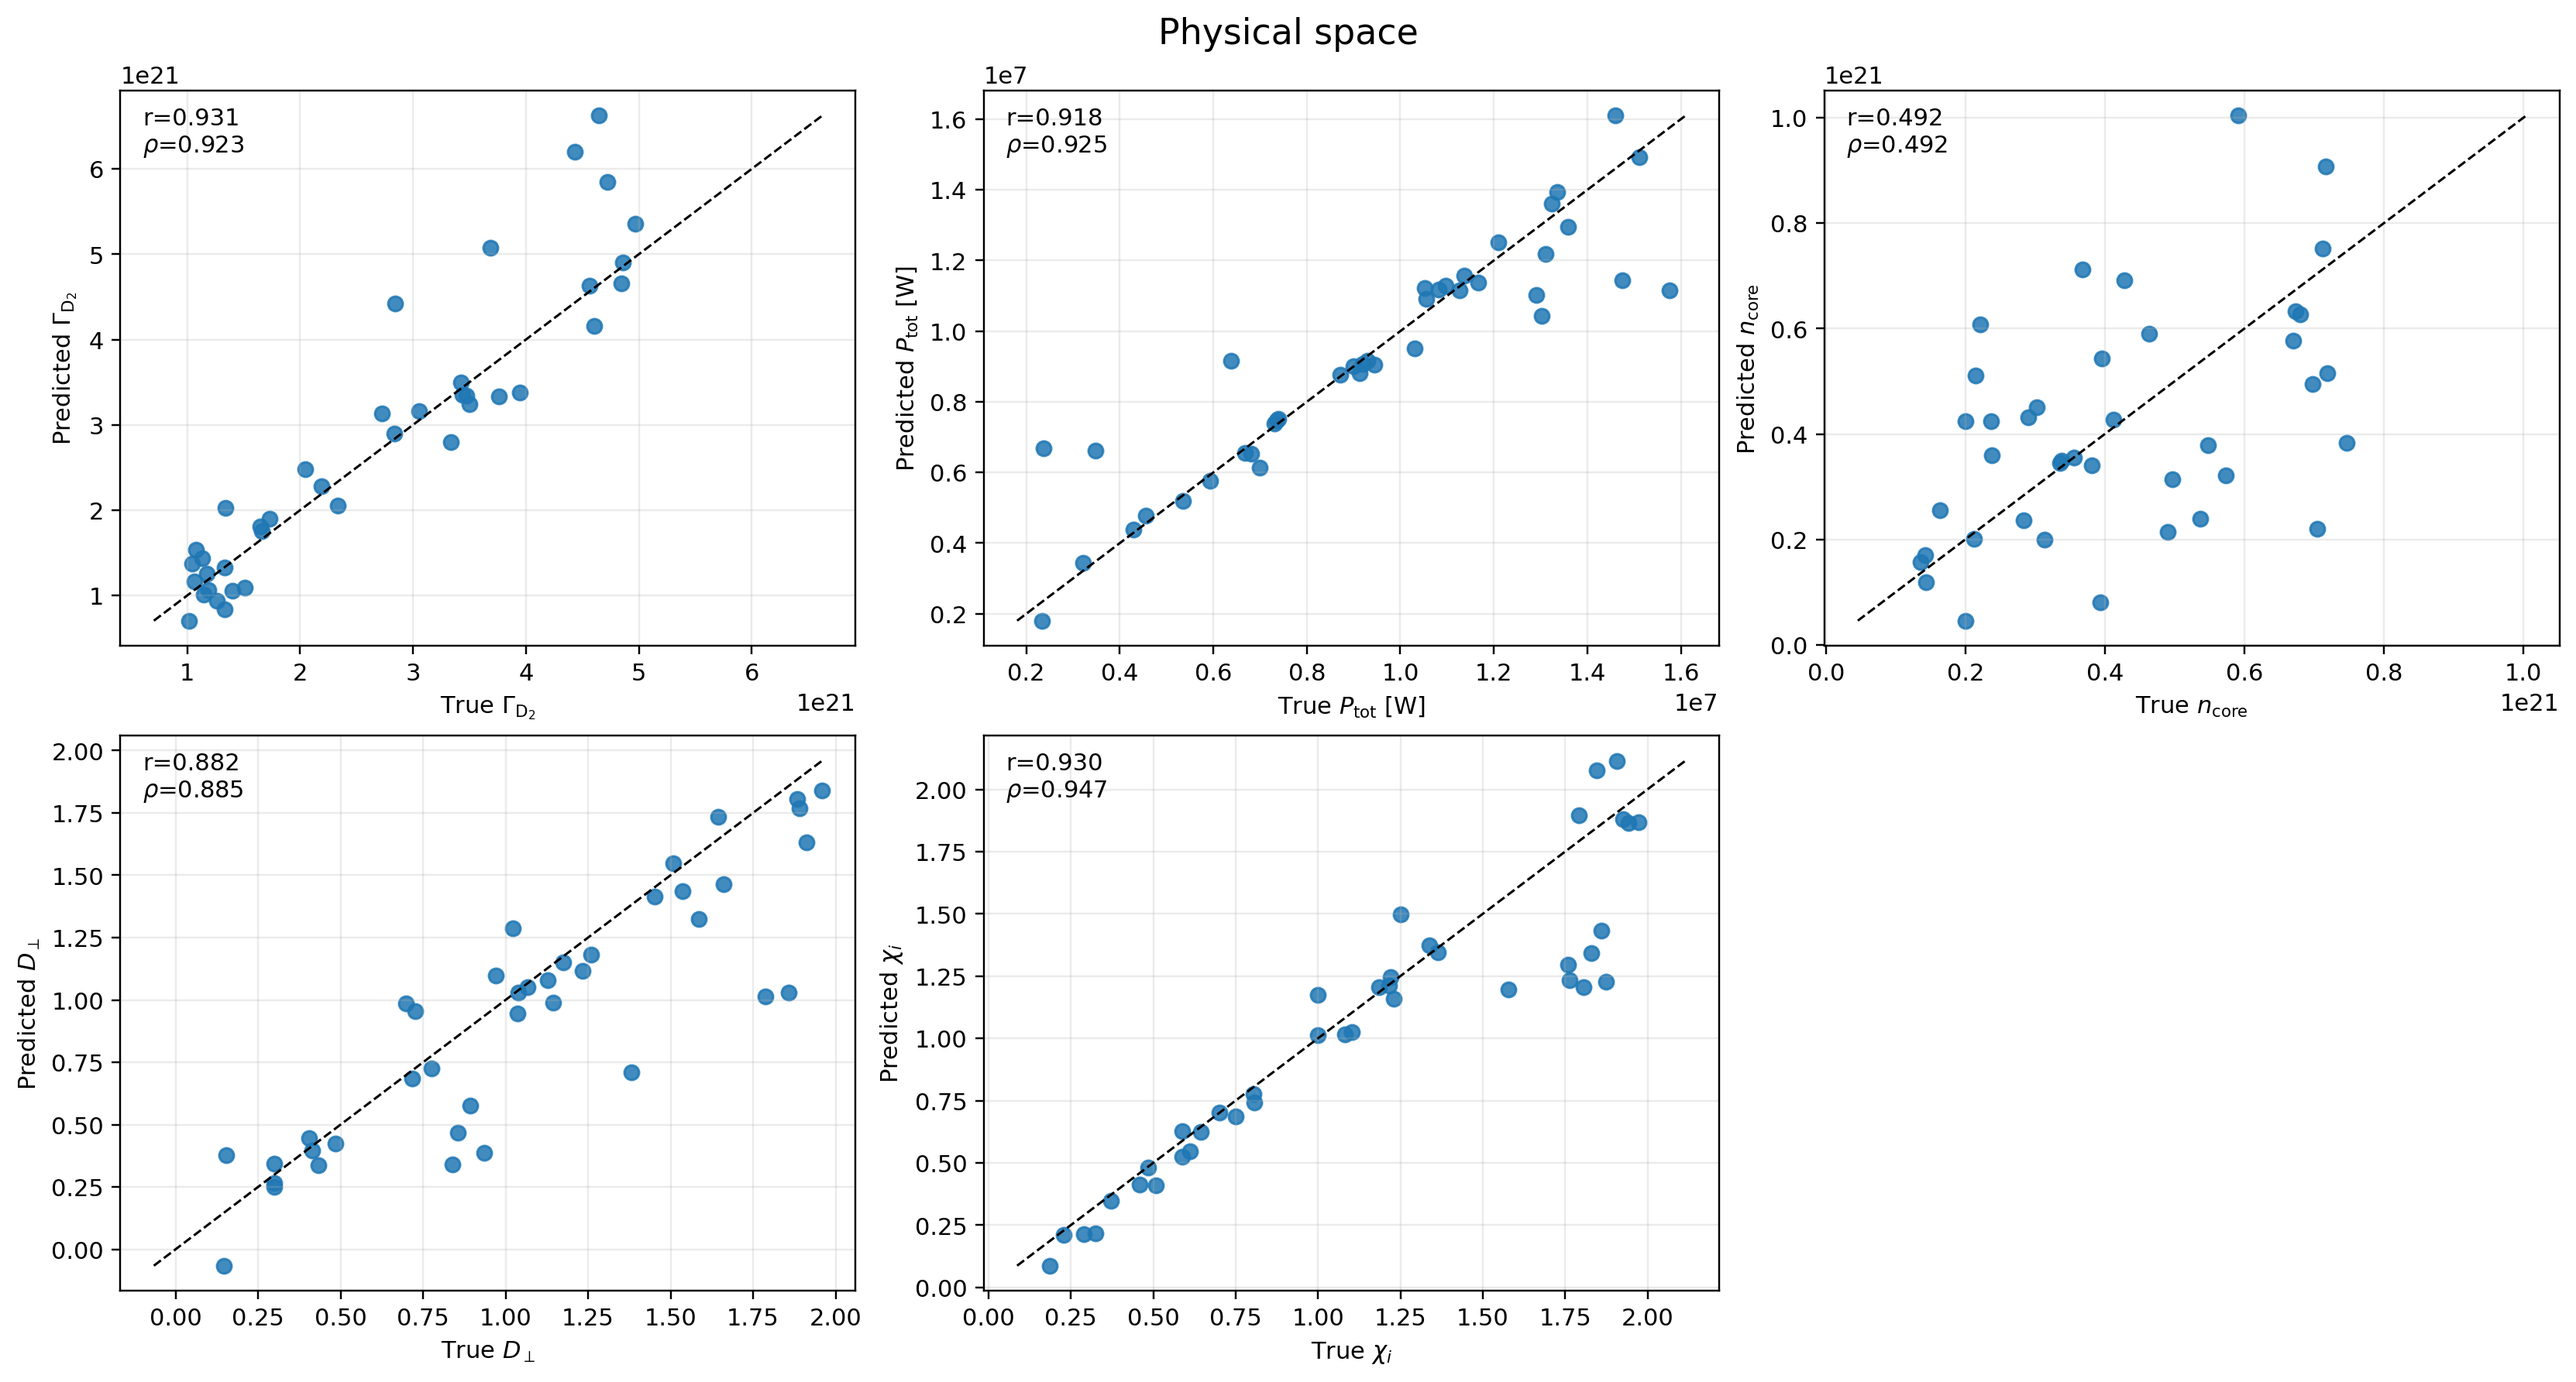
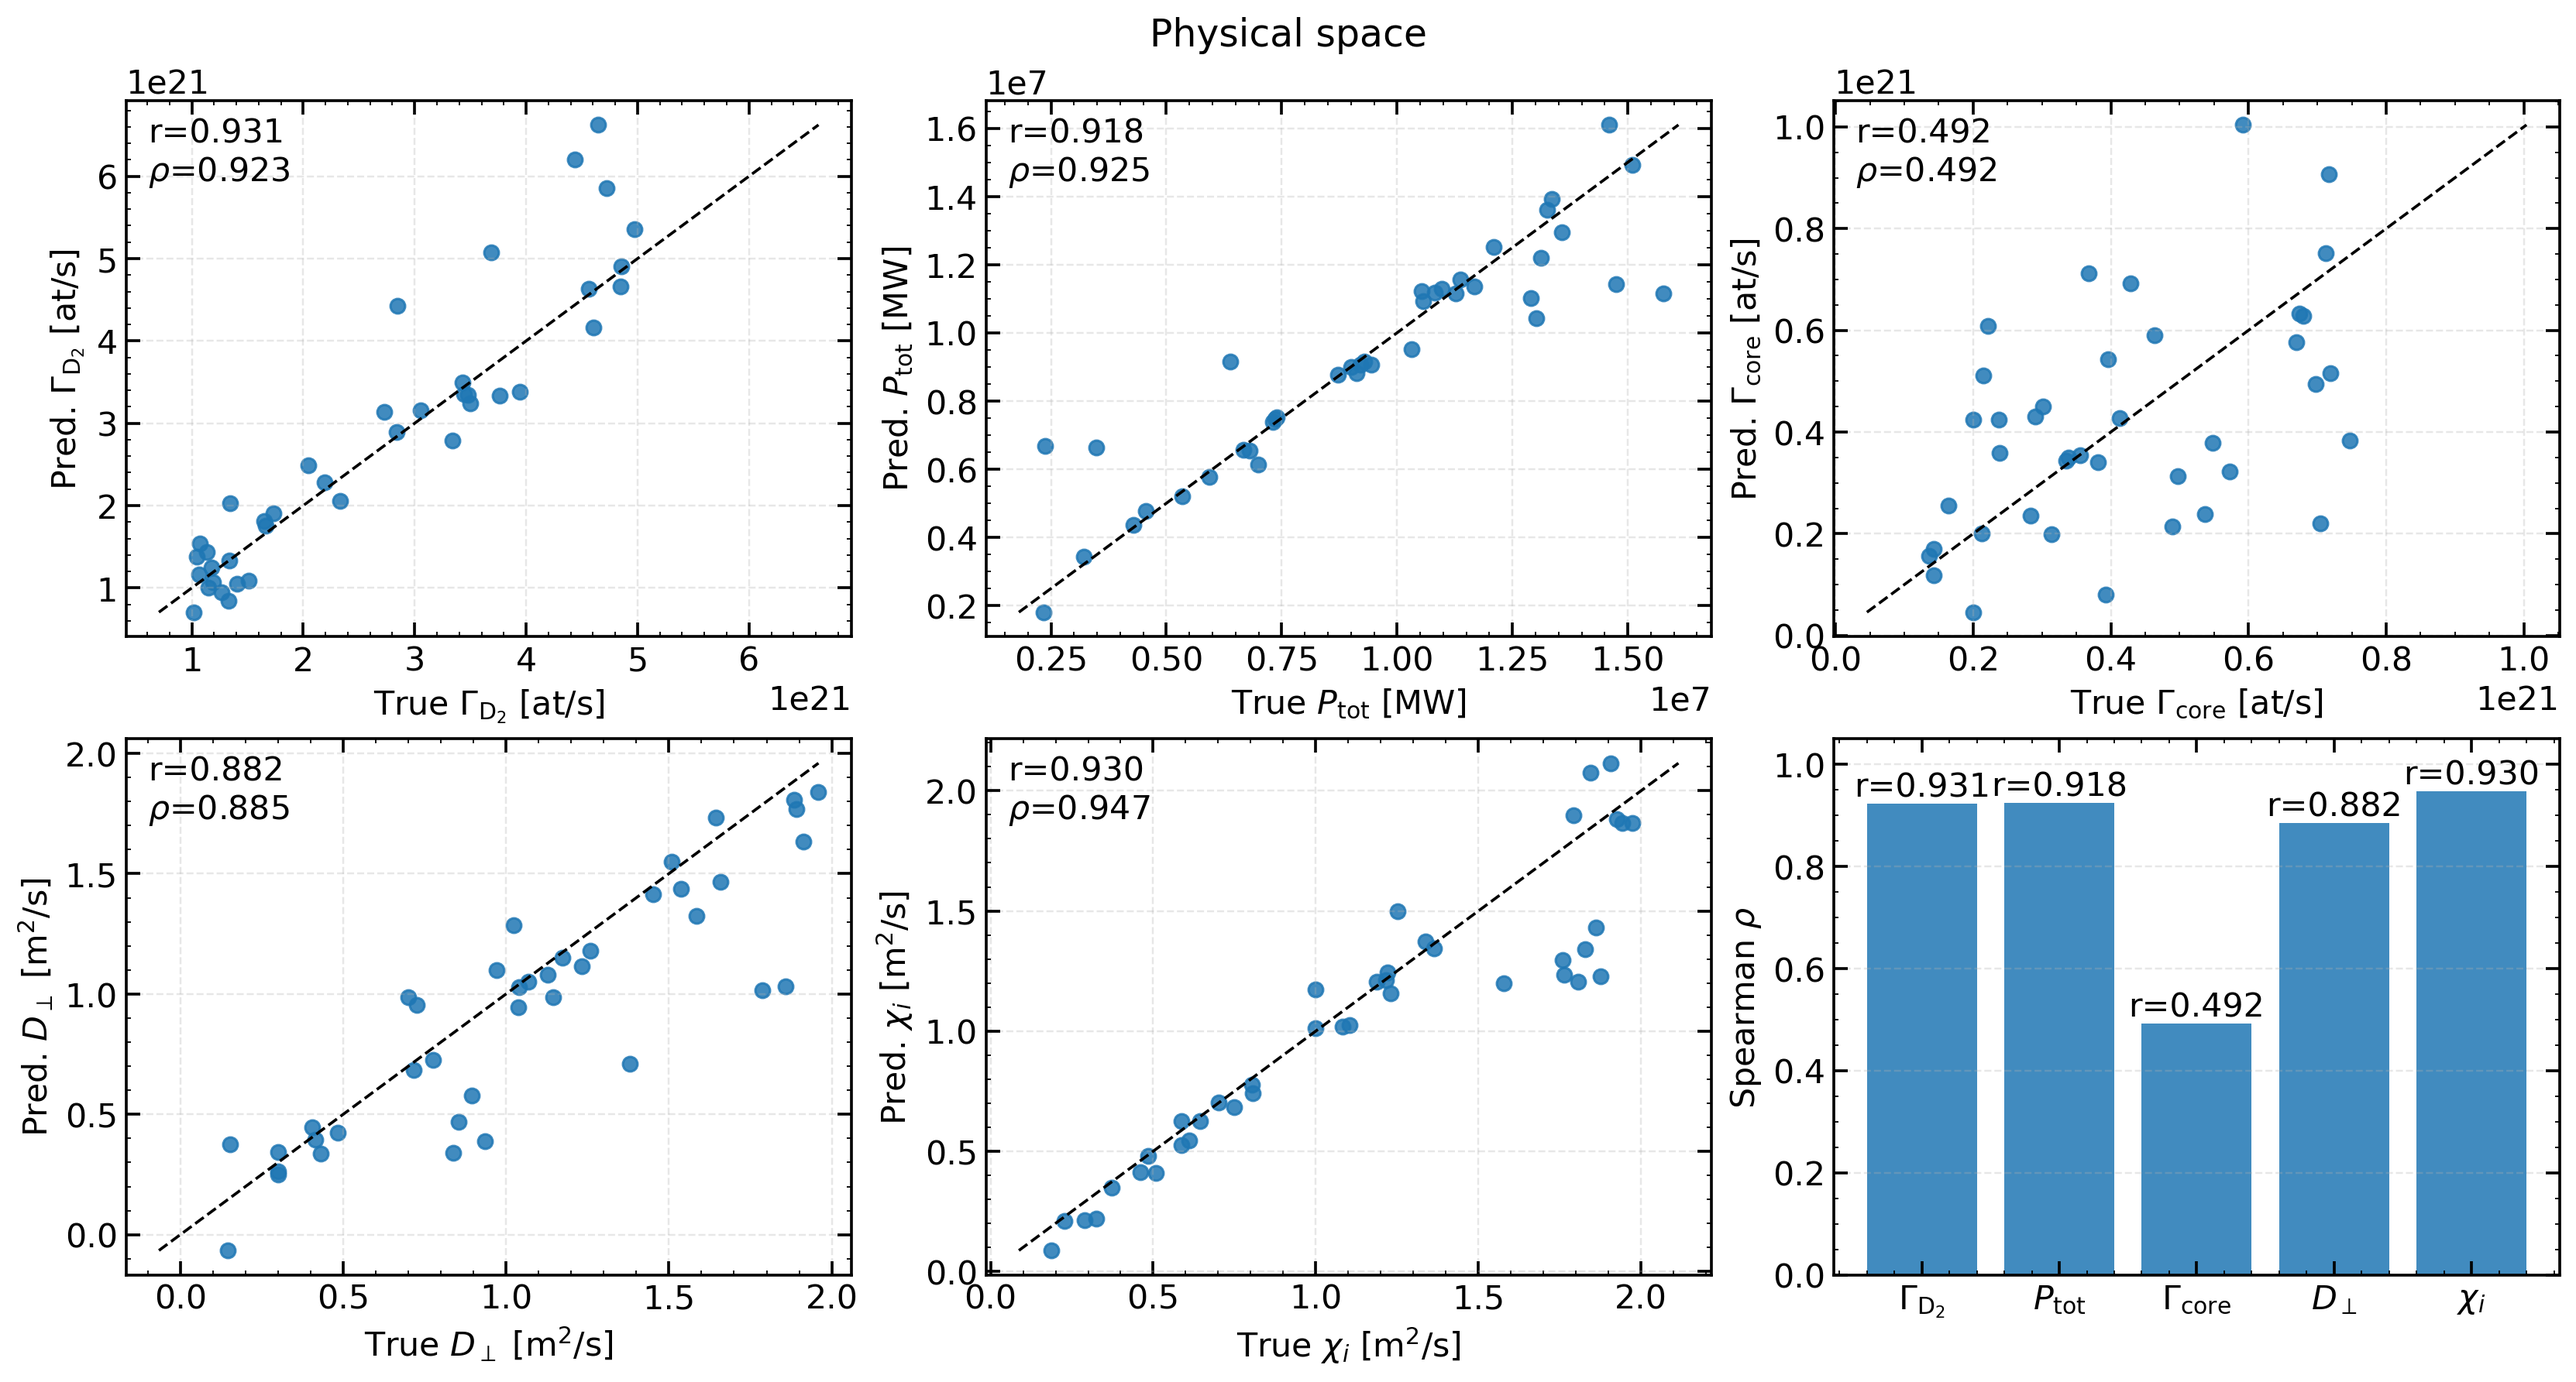
update

diff --git a/scripts/plot_inverse_correlation.py b/scripts/plot_inverse_correlation.py
@@ -6,59 +6,168 @@ import csv
 import os
 
 import matplotlib
-matplotlib.use("Agg")
+# matplotlib.use("Agg")
 import matplotlib.pyplot as plt
 import numpy as np
 from scipy.stats import spearmanr
 
 PARAM_LATEX = {
-    "Gamma_D2": r"$\Gamma_{\mathrm{D}_2}$",
-    "Ptot_W": r"$P_{\mathrm{tot}}$ [W]",
-    "n_core": r"$n_{\mathrm{core}}$",
-    "dna": r"$D_\perp$",
-    "hci": r"$\chi_i$",
-    "log10_thr": r"$\log_{10}(\mathrm{throughput})$",
-    "ratio_nc": r"$n_{\mathrm{core}} / \mathrm{throughput}$",
+    "Gamma_D2": r"$\Gamma_{\mathrm{D}_2}$ [at/s]",
+    "Ptot_W": r"$P_{\mathrm{tot}}$ [MW]",
+    "n_core": r"$\Gamma_{\mathrm{core}}$ [at/s]",
+    "dna": r"$D_\perp$ [m$^2$/s]",
+    "hci": r"$\chi_i$ [m$^2$/s]",
+    "Gamma_t": r"$\Gamma_t$ [at/s]",
+    "ratio_nc": r"$\Gamma_{\mathrm{core}}/\Gamma_t$",
 }
-
-PHYS_KEYS = ["Gamma_D2", "Ptot_W", "n_core", "dna", "hci"]
-TRANS_KEYS = ["log10_thr", "Ptot_W", "ratio_nc", "dna", "hci"]
-
 
 def _latex(name):
     return PARAM_LATEX.get(name, name)
 
 
+PHYS_KEYS  = ["Gamma_D2", "Ptot_W", "n_core", "dna", "hci"]
+TRANS_KEYS = ["Gamma_t", "Ptot_W", "ratio_nc", "dna", "hci"]
+
+
 def make_corr_plot(keys, true_cols, pred_cols, rows, save_path, title,
                    fontsize=13, tick_fontsize=10, marker_size=38):
-    nP = len(keys)
-    ncols = min(3, nP)
-    nrows = int(np.ceil(nP / ncols))
-    fig, axes = plt.subplots(nrows, ncols, figsize=(5 * ncols, 4 * nrows),
-                             constrained_layout=True)
-    axes = np.atleast_1d(axes).reshape(nrows, ncols)
+
+    fontsize = 14
+    tick_fontsize = 14
+
+    # 2x3 layout: 5 params + 1 summary slot
+    nrows, ncols = 2, 3
+
+    plt.rcParams.update(
+        {
+            "font.size": fontsize,
+            "axes.labelsize": fontsize,
+            "axes.titlesize": fontsize,
+            "xtick.labelsize": fontsize,
+            "ytick.labelsize": fontsize,
+            "legend.fontsize": fontsize,
+            "axes.linewidth": 1.2,
+            "xtick.major.width": 1.2,
+            "ytick.major.width": 1.2,
+            "xtick.major.size": 6,
+            "ytick.major.size": 6,
+        }
+    )
+
+    fig, axes = plt.subplots(
+        nrows, ncols,
+        figsize=(5 * ncols, 4 * nrows),
+        constrained_layout=True
+    )
+    axes = np.asarray(axes).reshape(nrows, ncols)
+
+    # store correlations for the summary panel
+    all_rho = []  # list of (name, pearson_r, spearman_rho)
+
+    # ---- Per-parameter scatter panels (up to 5)
     for k, name in enumerate(keys):
+        if k >= 5:
+            break
+
         r, c = k // ncols, k % ncols
         ax = axes[r, c]
-        t = np.array([float(row[true_cols[k]]) for row in rows])
-        p = np.array([float(row[pred_cols[k]]) for row in rows])
+
+        # robust parse (skip bad rows quietly)
+        t_list, p_list = [], []
+        for row in rows:
+            try:
+                tv = float(row[true_cols[k]])
+                pv = float(row[pred_cols[k]])
+            except Exception:
+                continue
+            if np.isfinite(tv) and np.isfinite(pv):
+                t_list.append(tv)
+                p_list.append(pv)
+
+        t = np.asarray(t_list, dtype=float)
+        p = np.asarray(p_list, dtype=float)
+
+        if t.size == 0:
+            ax.axis("off")
+            ax.text(0.5, 0.5, f"No data for {_latex(name)}",
+                    ha="center", va="center", fontsize=fontsize)
+            all_rho.append((name, np.nan, np.nan))
+            continue
+
         ax.scatter(t, p, s=marker_size, alpha=0.85)
-        lo, hi = min(np.min(t), np.min(p)), max(np.max(t), np.max(p))
+
+        # 1:1 line
+        lo = float(min(t.min(), p.min()))
+        hi = float(max(t.max(), p.max()))
         if np.isfinite(lo) and np.isfinite(hi) and hi > lo:
-            ax.plot([lo, hi], [lo, hi], "k--", linewidth=1.0)
-        pear = float(np.corrcoef(t, p)[0, 1]) if len(t) > 2 else np.nan
-        spear = float(spearmanr(t, p).correlation) if len(t) > 2 else np.nan
+            ax.plot([lo, hi], [lo, hi], "k--", linewidth=1.2)
+
+        pear = float(np.corrcoef(t, p)[0, 1]) if t.size > 2 else np.nan
+        spear = float(spearmanr(t, p).correlation) if t.size > 2 else np.nan
+        all_rho.append((name, pear, spear))
+
         label = _latex(name)
         ax.set_xlabel(f"True {label}")
-        ax.set_ylabel(f"Predicted {label}")
-        ax.text(0.03, 0.97, f"r={pear:.3f}\n$\\rho$={spear:.3f}",
-                transform=ax.transAxes, va="top", ha="left", fontsize=tick_fontsize)
-        ax.grid(alpha=0.25)
-    for k in range(nP, nrows * ncols):
-        axes[k // ncols, k % ncols].axis("off")
+        ax.set_ylabel(f"Pred. {label}")
+
+        ax.text(
+            0.03, 0.97, f"r={pear:.3f}\n$\\rho$={spear:.3f}",
+            transform=ax.transAxes,
+            va="top", ha="left",
+            fontsize=tick_fontsize
+        )
+
+        ax.grid(True, linestyle="--", alpha=0.3)
+        ax.minorticks_on()
+        ax.tick_params(axis="both", which="both", direction="in", top=True, right=True)
+
+    # ---- 6th slot: correlation summary inside the 2x3 grid
+    sum_ax = axes[1, 2]  # bottom-right
+
+    all_rho = all_rho[:min(5, len(all_rho))]
+    names = [n for (n, _, __) in all_rho]
+    pears = np.array([r for (_, r, __) in all_rho], dtype=float)
+    spears = np.array([rho for (_, __, rho) in all_rho], dtype=float)
+    x = np.arange(len(names))
+
+    if np.all(~np.isfinite(spears)):
+        sum_ax.axis("off")
+        sum_ax.text(0.5, 0.5, "No correlations",
+                    ha="center", va="center", fontsize=fontsize)
+    else:
+        sum_ax.bar(x, spears, alpha=0.85)
+        sum_ax.set_ylabel(r"Spearman $\rho$")
+#        sum_ax.set_xlabel("Parameter")
+        sum_ax.set_xticks(x)
+        def _latex_symbol(name):
+            s = _latex(name)
+            if "[" in s:
+                s = s.split("[")[0].strip()
+            return s
+
+        sum_ax.set_xticklabels([_latex_symbol(n) for n in names], rotation=0)
+        sum_ax.grid(True, axis="y", linestyle="--", alpha=0.3)
+        sum_ax.minorticks_on()
+        sum_ax.tick_params(axis="both", which="both", direction="in", top=True, right=True)
+
+        for i, (pr, sr) in enumerate(zip(pears, spears)):
+            if np.isfinite(sr):
+                txt = f"r={pr:.3f}" if np.isfinite(pr) else "r=nan"
+                sum_ax.text(i, sr, txt, ha="center", va="bottom", fontsize=tick_fontsize)
+
+        sum_ax.set_ylim(.0, 1.05)
+
+    # ---- Turn off any unused axes besides the summary slot
+    used_slots = min(len(keys), 5)
+    for k in range(used_slots, nrows * ncols):
+        rr, cc = k // ncols, k % ncols
+        if (rr, cc) == (1, 2):
+            continue
+        axes[rr, cc].axis("off")
+
     fig.suptitle(title, fontsize=fontsize + 2)
     fig.savefig(save_path, dpi=220, bbox_inches="tight")
-    plt.close(fig)
+    plt.show()
     print(f"Saved: {save_path}")
 
 
@@ -77,7 +186,6 @@ def main():
     print(f"Loaded {len(rows)} rows from {args.csv}")
     cols = list(rows[0].keys())
 
-    # Detect column naming: old uses _rec, new uses _pred
     suffix = "_rec" if f"{PHYS_KEYS[0]}_rec" in cols else "_pred"
 
     # Physical-space plot
@@ -90,8 +198,9 @@ def main():
             "Physical space",
         )
 
-    # Transformed-space plot: compute from physical values
-    # log10_thr = log10(Gamma_D2 + n_core), ratio_nc = n_core / (Gamma_D2 + n_core)
+    # Transformed-space plot (linear):
+    # Gamma_t = Gamma_D2 + n_core
+    # ratio_nc = n_core / Gamma_t
     has_phys = all(f"{k}_true" in cols and f"{k}{suffix}" in cols
                    for k in ["Gamma_D2", "n_core"])
     if has_phys:
@@ -100,12 +209,15 @@ def main():
             n_true = float(row["n_core_true"])
             g_pred = float(row[f"Gamma_D2{suffix}"])
             n_pred = float(row[f"n_core{suffix}"])
-            thr_true = g_true + n_true
-            thr_pred = g_pred + n_pred
-            row["log10_thr_true"] = np.log10(max(thr_true, 1e-30))
-            row[f"log10_thr{suffix}"] = np.log10(max(thr_pred, 1e-30))
-            row["ratio_nc_true"] = n_true / max(thr_true, 1e-30)
-            row[f"ratio_nc{suffix}"] = n_pred / max(thr_pred, 1e-30)
+
+            gt_true = g_true + n_true
+            gt_pred = g_pred + n_pred
+
+            row["Gamma_t_true"] = gt_true
+            row[f"Gamma_t{suffix}"] = gt_pred
+
+            row["ratio_nc_true"] = n_true / max(gt_true, 1e-30)
+            row[f"ratio_nc{suffix}"] = n_pred / max(gt_pred, 1e-30)
 
         true_cols_trans = [f"{k}_true" for k in TRANS_KEYS]
         pred_cols_trans = [f"{k}{suffix}" for k in TRANS_KEYS]
